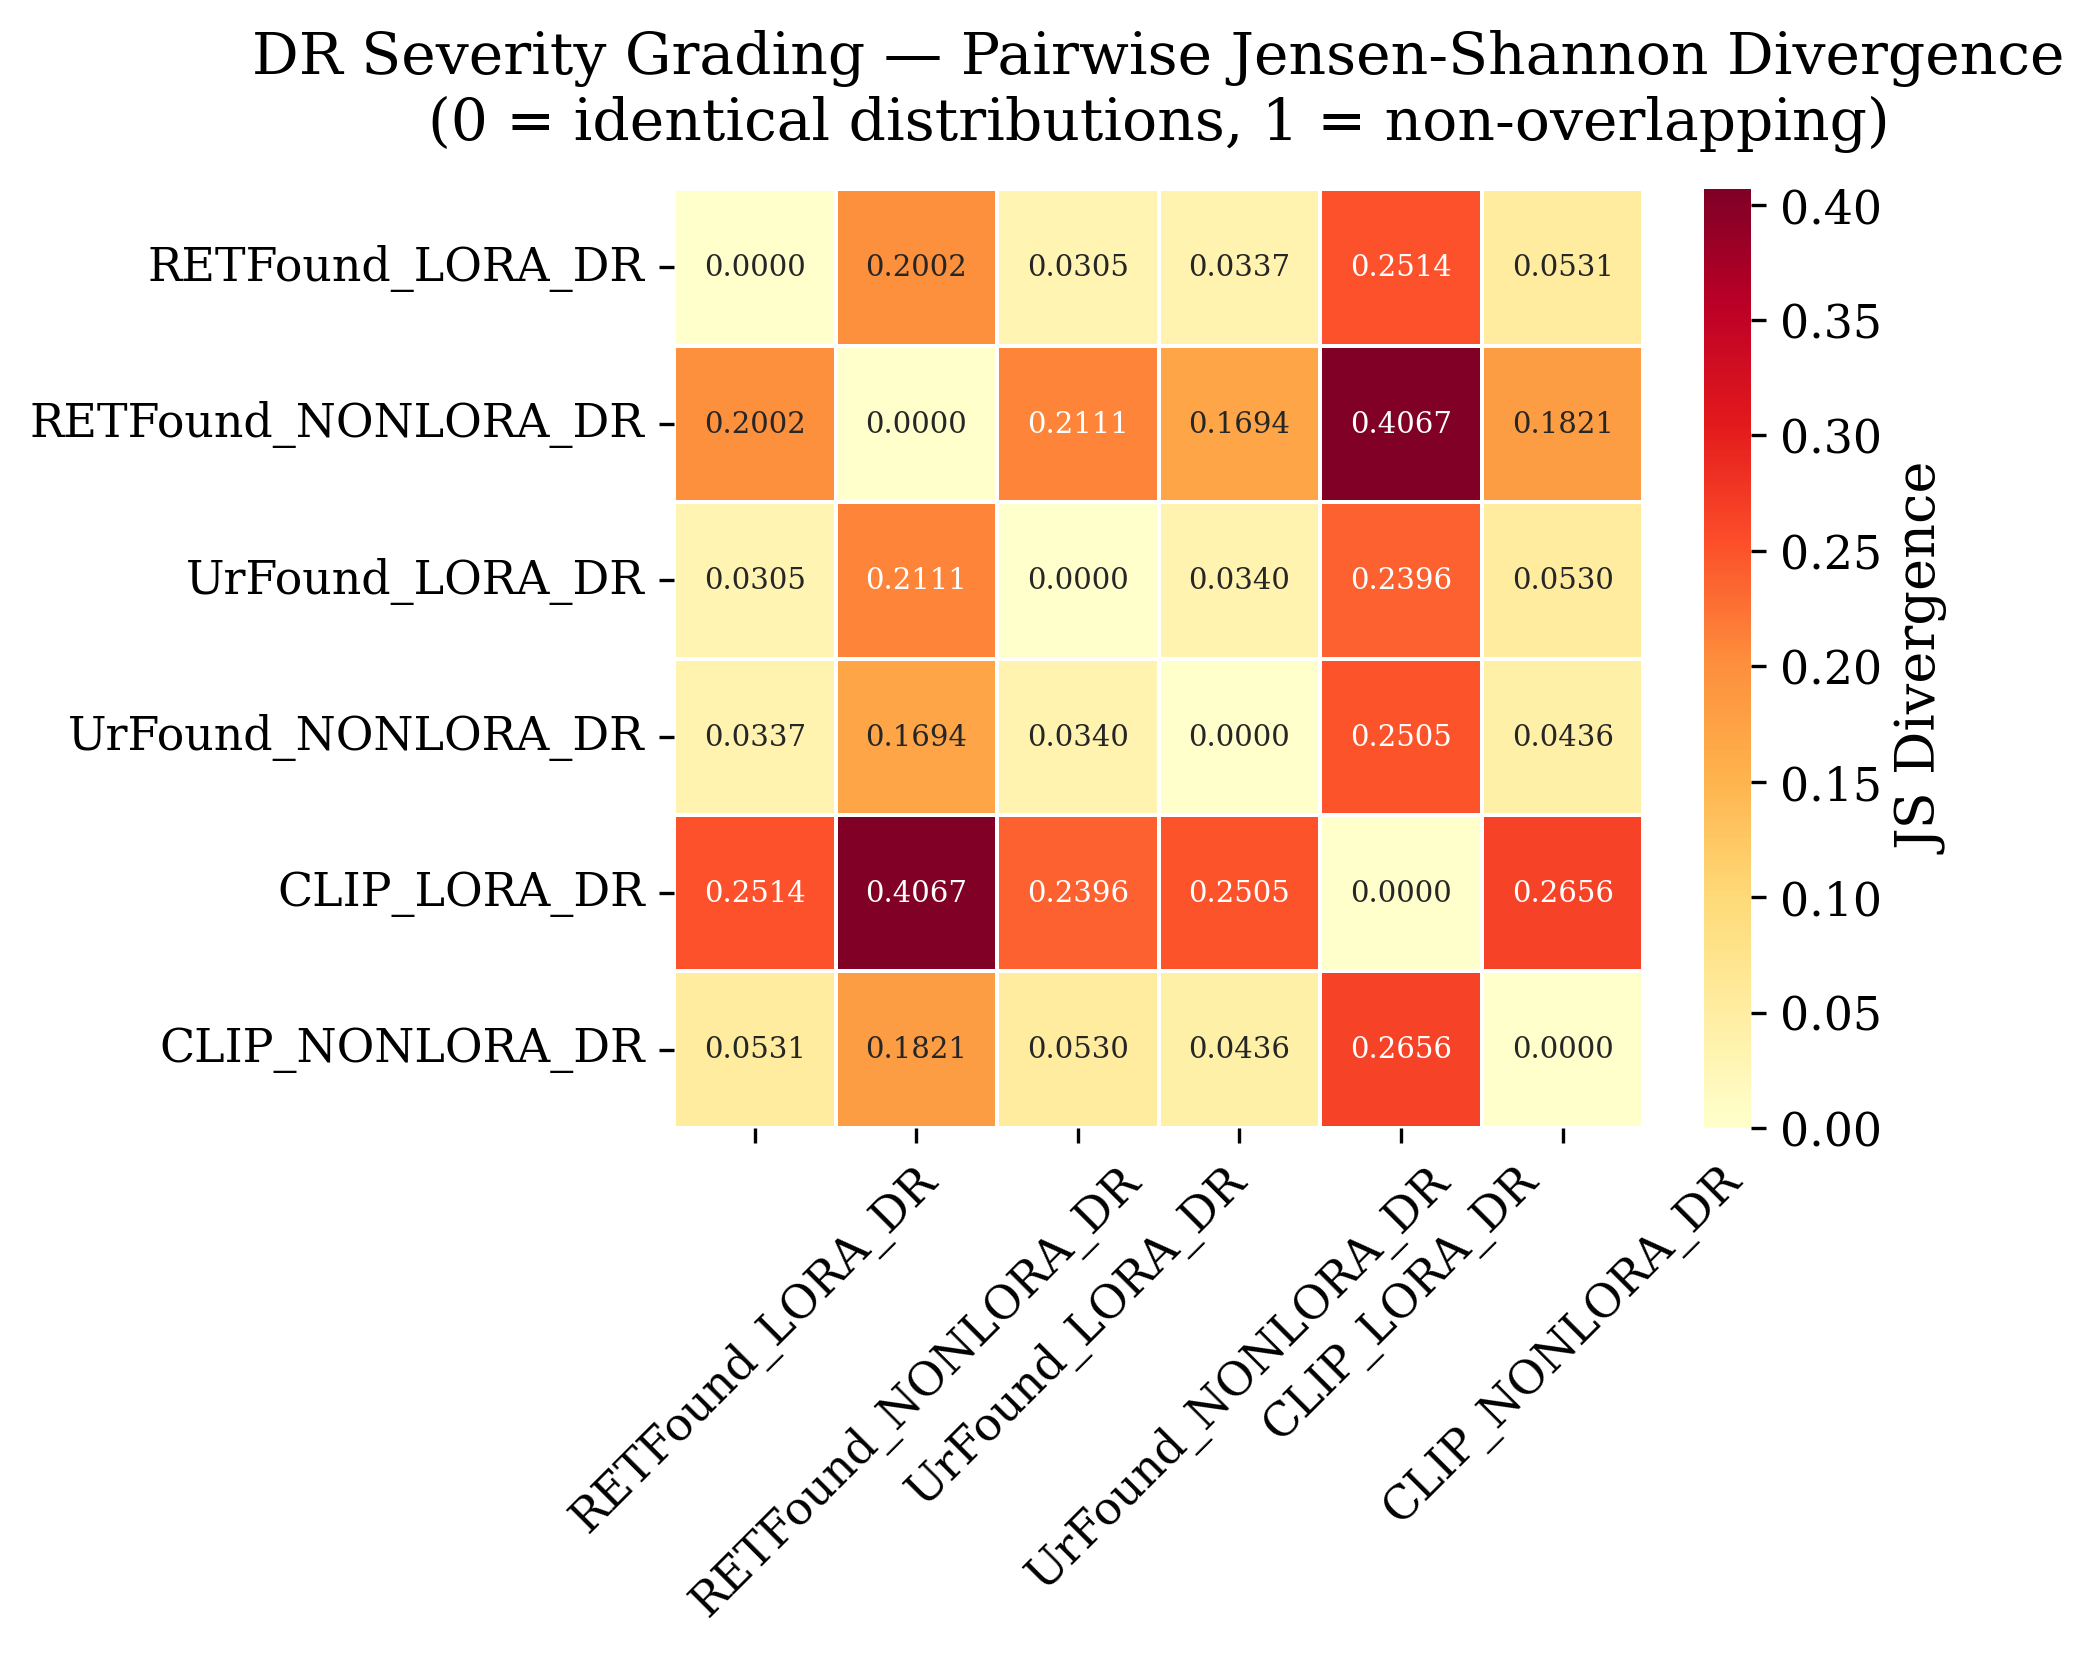
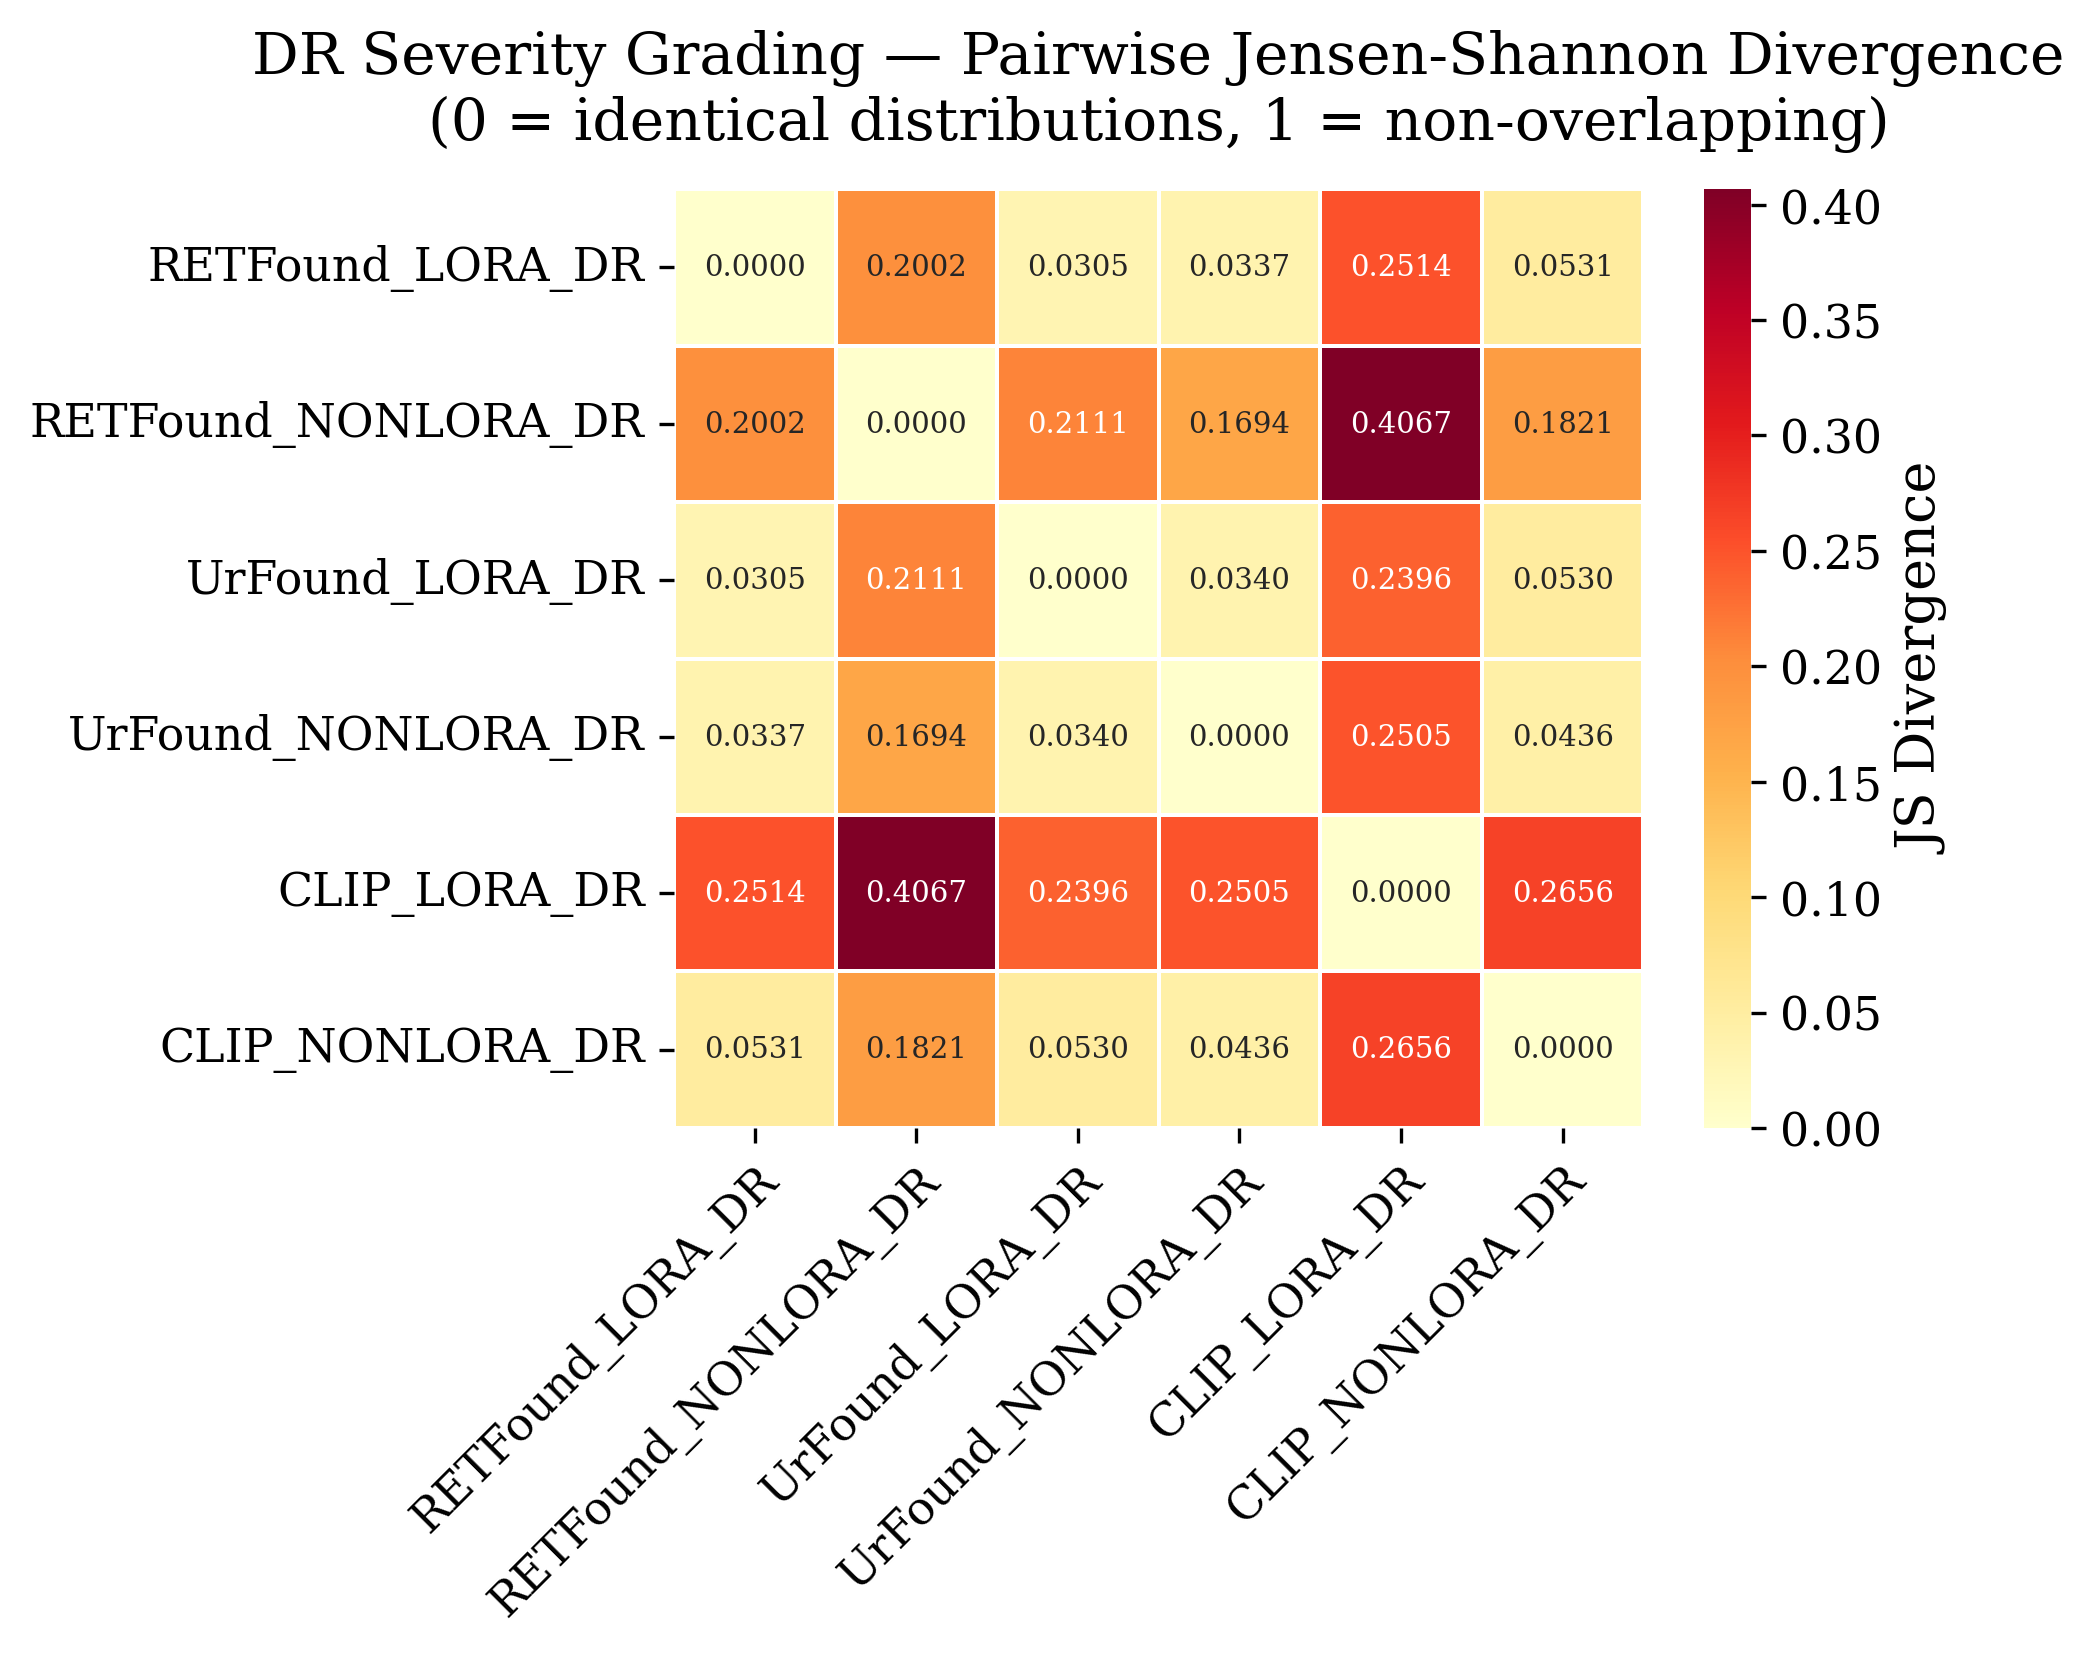
push fixed JS divergence plots

diff --git a/src/main/results_collator.py b/src/main/results_collator.py
@@ -350,7 +350,7 @@ def plot_js_heatmap(js_dict, model_names, title, output_path):
     ax.set_title(title, pad=12)
     ax.set_xlabel("")
     ax.set_ylabel("")
-    ax.tick_params(axis='x', rotation=45)
+    plt.setp(ax.get_xticklabels(), rotation=45, ha='right', rotation_mode='anchor')
     ax.tick_params(axis='y', rotation=0)
     plt.tight_layout()
     plt.savefig(output_path, dpi=300, bbox_inches='tight')
